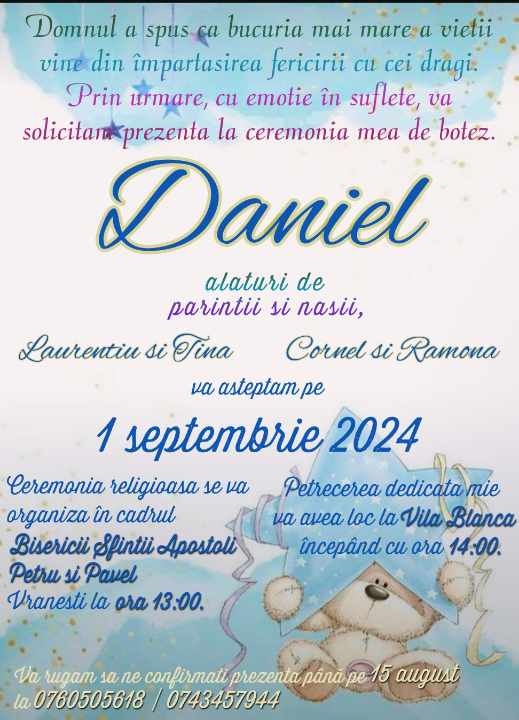
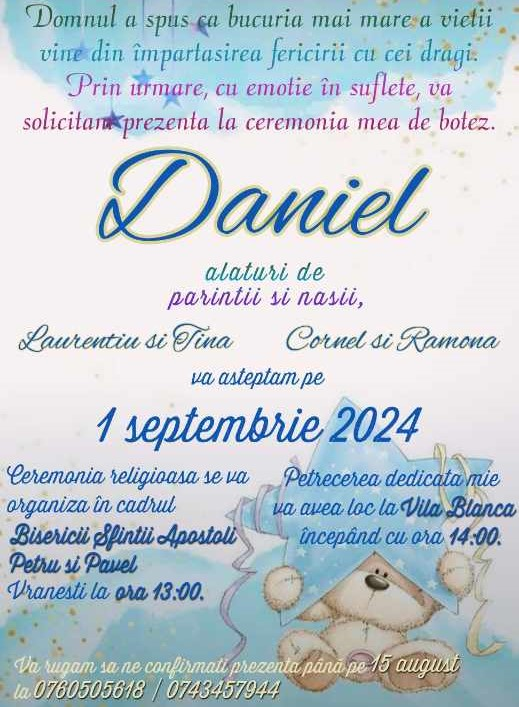
dsdas

diff --git a/index.html b/index.html
@@ -12,23 +12,6 @@
 </head>
 <body>
           <div class="invite-text">
-          <p id="p1">Domnul a spus că bucuria mai mare a vieții</p>
-          <p id="p2">vine din împărtășirea fericirii cu cei dragi.</p>
-          <p id="p3">Prin urmare, cu emoție în suflete, </p>
-          <p id="p4">vă solicităm prezența la ceremonia mea de botez.</p>
-          <h1>Daniel</h1>
-          <p id="p4">alături de părinții si nașii</p>
-          <div style="display: flex; justify-content: space-between;">
-            <p id="side">Laurențiu și Tina</p>
-            <p id="side">Cornel și Ramona</p>
-          </div>
-          <p id="p7">vă așteptăm pe:</p>
-          <p id="names">1 septembrie 2024</p>
-          <div style="display: flex; justify-content: space-between;">
-            <p id="side2">Ceremonia religioasă se va organiza în cadrul Bisericii Sfinții Apostoli Petru și Pavel, Vrănești la ora 13:00.</p>
-            <p id="side2">Petrecerea dedicată mie va avea loc la Vila Blanca începând cu ora 14:00.</p>
-          </div>
-          <p id="">Vă rugăm să confirmați prezența pana pe 15 August la 0760505618/0743457944</p>
     </div>
       <style>
         * {
@@ -41,168 +24,24 @@ html {
 
 body {
   margin: 0;
-  background-color: #adc6da
+  background-color: #F5F1F2;
 }
 
-h1{
-    font-size: 15vh;
-    font-family:  'Cedarville Cursive', serif;
-    color: #EF8670;
-    outline: none;
-    text-align: center;
-    -webkit-animation: fadein 2s linear forwards;
-    animation: fadein 2s linear forwards;
-    opacity: 0;
-    line-height: 1;
-    letter-spacing: -1px;
-    text-transform: none;
-    margin: 5vh;
-}
-
-a {
-    font-family: 'Inconsolata', monospace;
-    font-size: 2vh;
-    color: #e46a52;
-}
-a:hover{
-  color: #EF8670;
-}
 
 .invite-text{
-  border: mintcream 2vh solid;
-  padding:25;
-  flex-direction: column;
   /* justify-content: center; */
   align-items: center;
   display: flex;
-  width: 56vh;
+  width: 100%;
+  height: 100%;
   margin: 0 auto; /* Center the coupon */
 
-  background-image: url("img2.jpeg");
+  background-image: url("bg.jpeg");
   background-repeat: no-repeat;
-  background-position: top center;
+  background-position: center;
   background-size: contain;
 }
 
-
-@media only screen and (max-width: 500px) {
-  .invite-text{
-    width: 100%;
-  }
-}
-
-
-.elementToFadeInAndOut {
-    -webkit-animation: fadeout 7s linear forwards;
-    animation: fadeout 4s linear forwards;
-    opacity: 0;
-    position: fixed;
-    top: 50%;
-    left: 50%;
-    /* bring your own prefixes */
-    transform: translate(-50%, -50%);
-}
-
-@-webkit-keyframes fadeout {
-from { opacity: 1; }
-to { opacity: 0; }
-}
-
-@keyframes fadeout {
-    from { opacity: 1; }
-    to { opacity: 0; }
-}
-
-
-.container {
-    flex-direction: column;
-    justify-content: center;
-    align-items: center;
-    display: flex;
-    width: 100%;
-    height: 100%;
-  }
-  
-
-  @media screen and (max-width:600px) {
-  #title{
-    font-size:2.5vh
-  }
-}
-  
-  p {
-    -webkit-animation: fadein 2s linear forwards;
-    animation: fadein 2s linear forwards;
-    /* text-transform: uppercase; */
-    opacity: 0;
-    font-family: 'Inconsolata', monospace;
-    font-size: 1.7vh;
-    text-align: center;
-    color: #e29585;
-    line-height: 2;
-    margin-top: 0 ;
-    margin-bottom: 0 ;
-  }
-
-
-  #names {
-    padding-top:20;
-    padding-bottom:20;
-    font-size: 3vh;
-    font-family:  'Cedarville Cursive', serif;
-    color: #e46a52;
-    outline: none;
-    text-align: center;
-    -webkit-animation: fadein 2s linear forwards;
-    animation: fadein 2s linear forwards;
-    opacity: 0;
-    line-height: 1;
-    text-transform: none;
-    letter-spacing: -1px;
-  }
-
-  #side {
-    font-size: 2.5vh;
-    padding:20;
-    flex-basis: 49.5%;
-    font-family:  'Cedarville Cursive', serif;
-    color: #e46a52;
-    outline: none;
-    -webkit-animation: fadein 2s linear forwards;
-    animation: fadein 2s linear forwards;
-    /* animation-delay: 7s; */
-    opacity: 0;
-    line-height: 1;
-    text-transform: none;
-    letter-spacing: -1px;
-  }
-
-  
-  #side2 {
-    font-size: 1.7vh;
-    padding:5;
-    flex-basis: 49.5%;
-    font-family: 'Inconsolata', monospace;
-    color: #e46a52;
-    outline: none;
-    -webkit-animation: fadein 2s linear forwards;
-    animation: fadein 2s linear forwards;
-    /* animation-delay: 7s; */
-    opacity: 0;
-    line-height: 1;
-    text-transform: none;
-    letter-spacing: 2px;
-  }
-
-@-webkit-keyframes fadein {
-    from { opacity: 0; }
-    to { opacity: 1; }
-    }
-    
-    @keyframes fadein {
-        from { opacity: 0; }
-        to { opacity: 1; }
-    }
       </style>
     
 </body>
